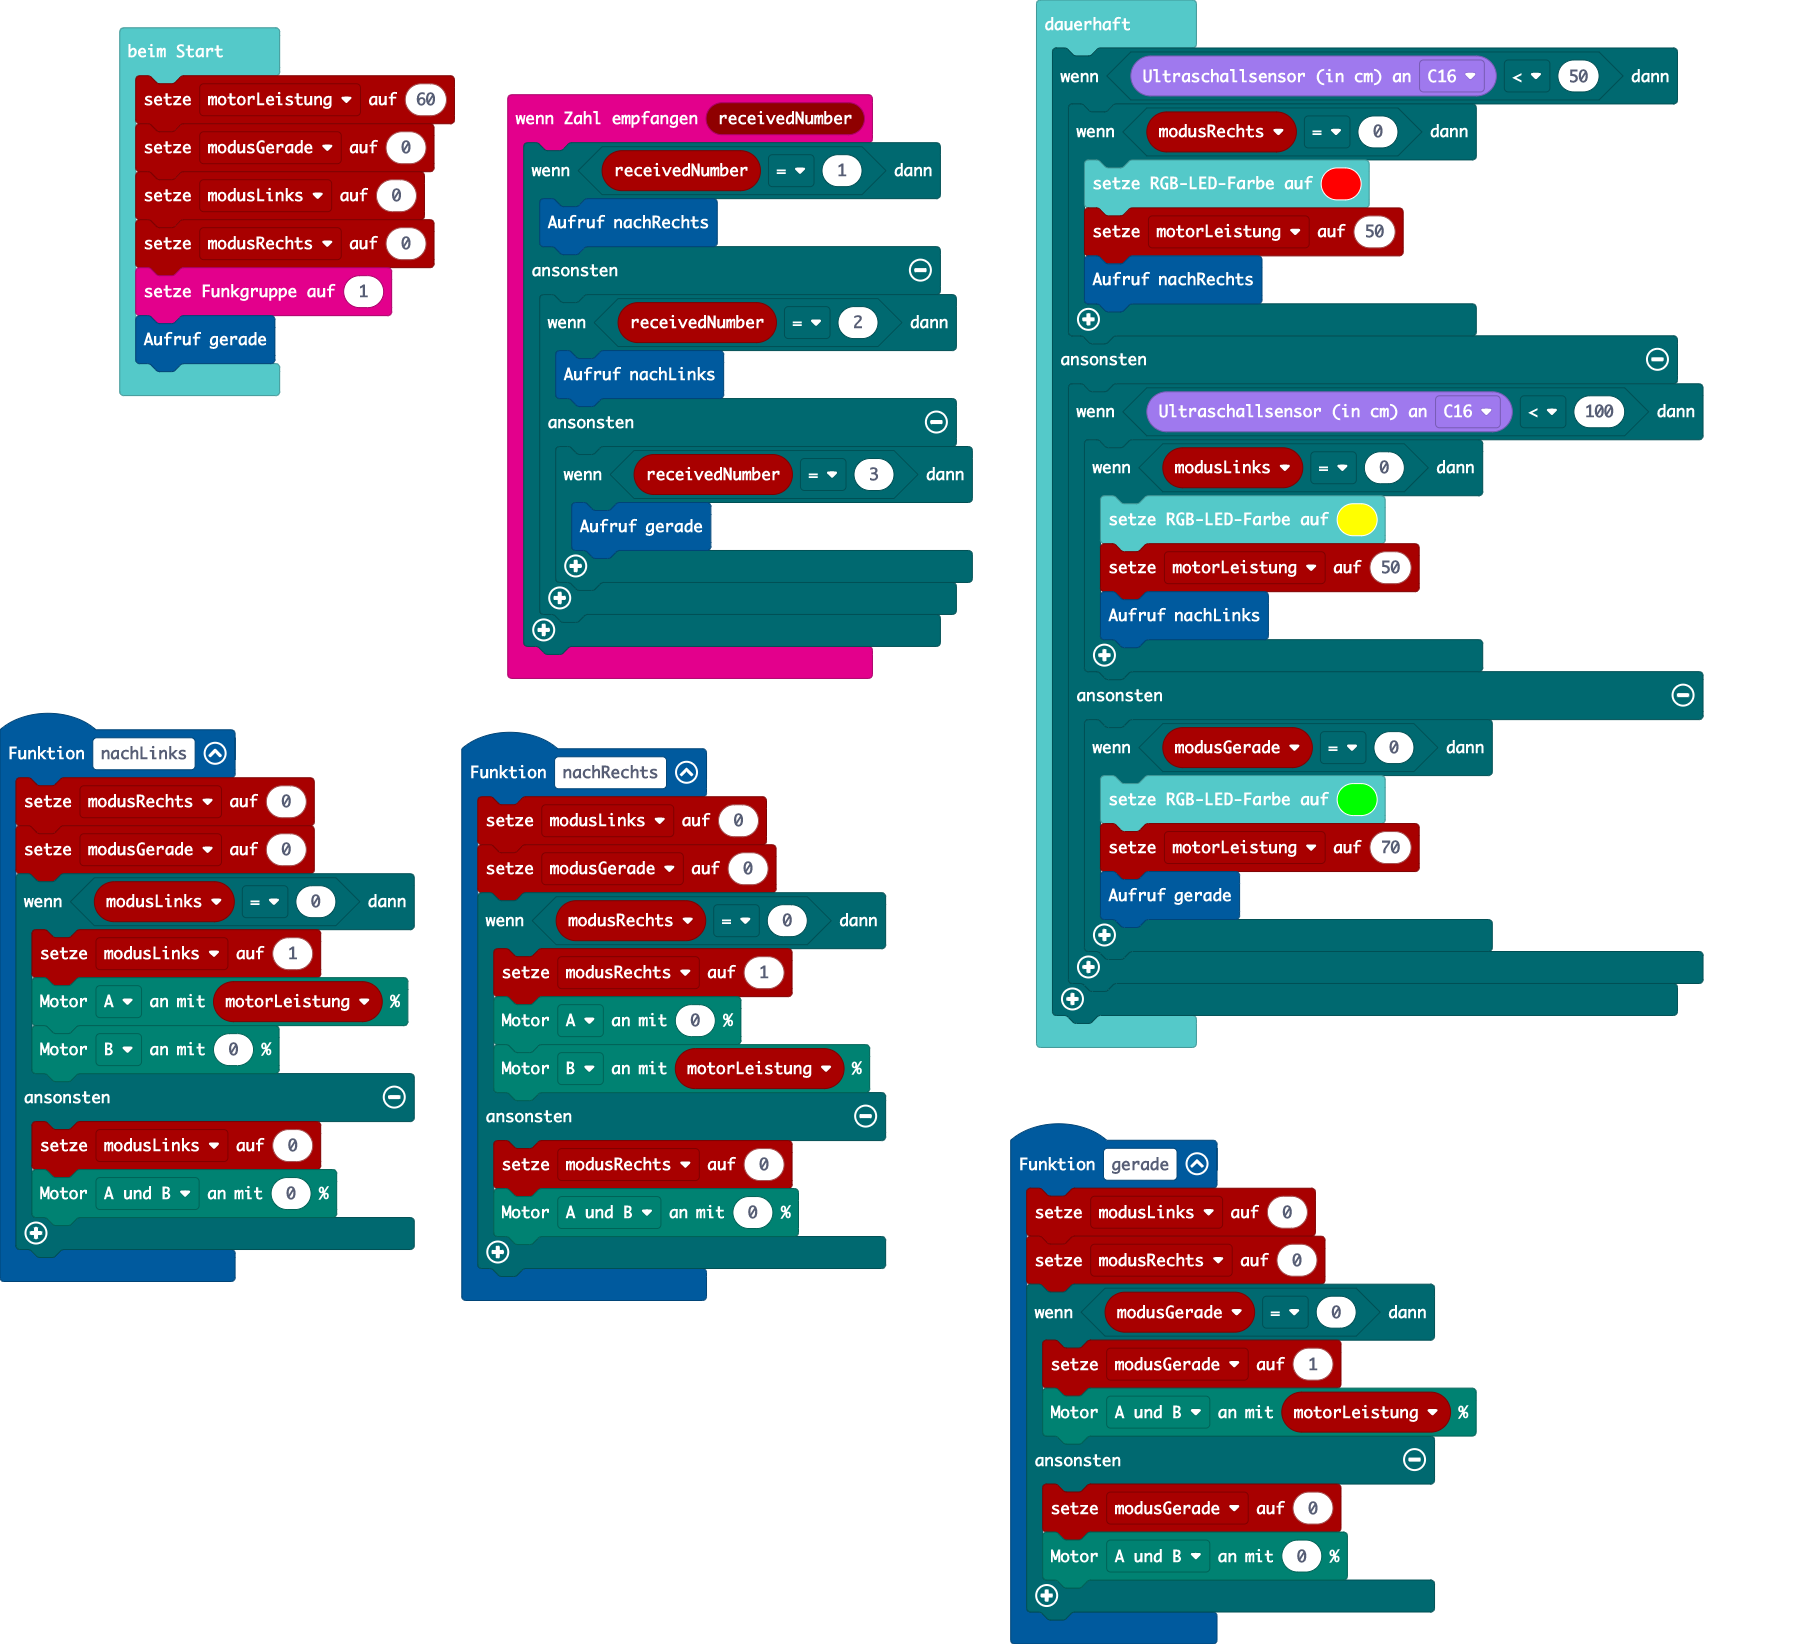
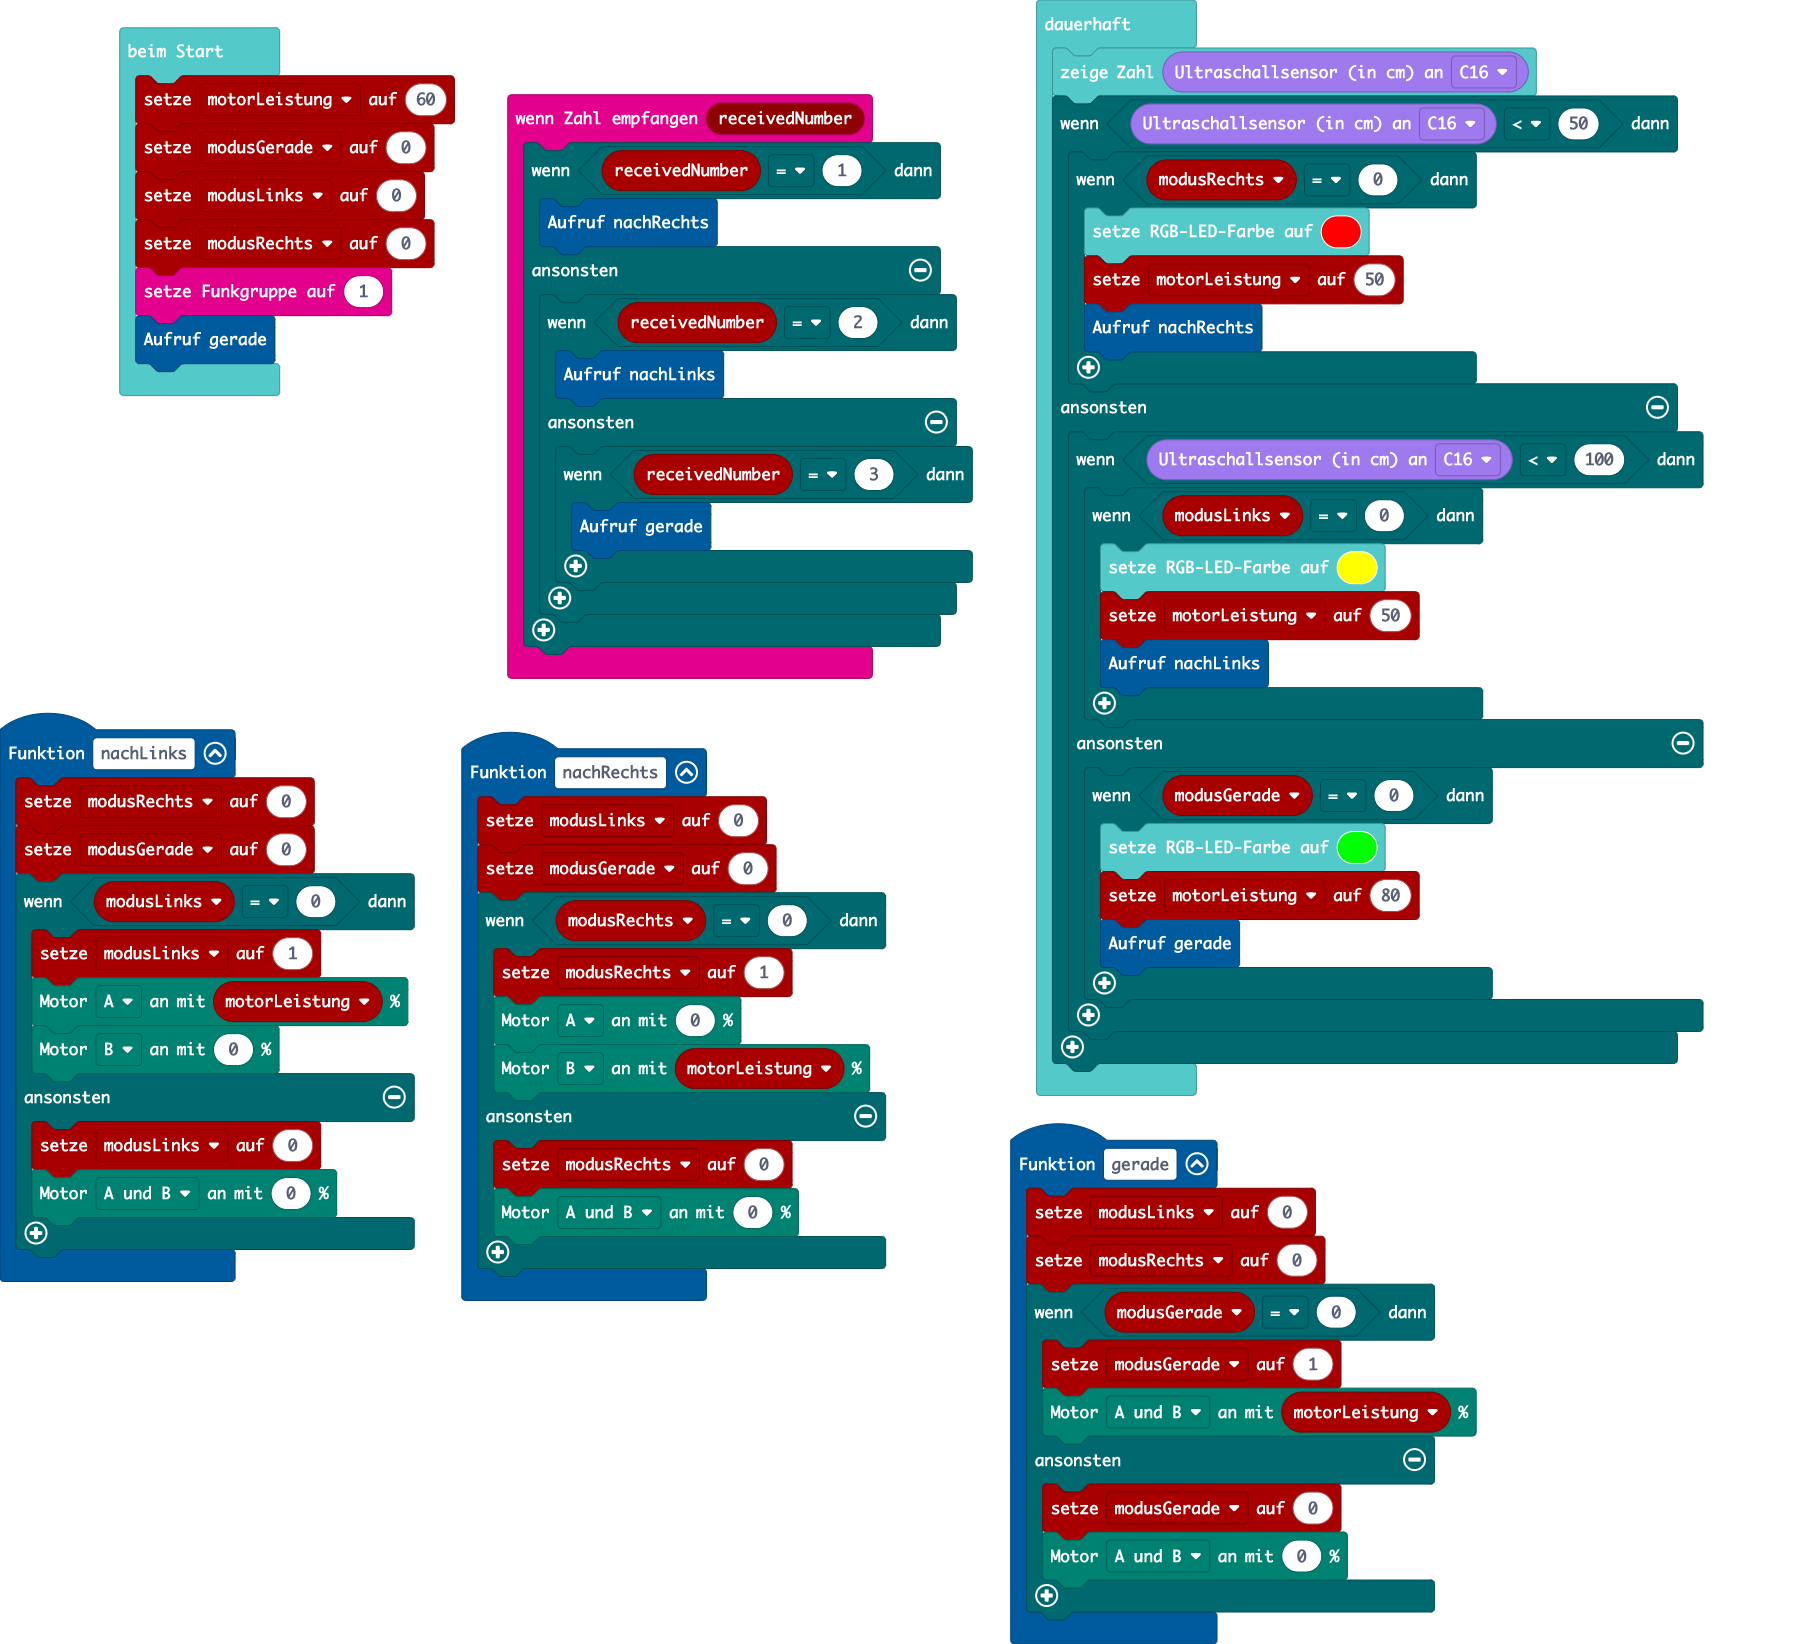
Aktualisiere main.blocks, main.ts

Changed region(s): [[0.5578, 0.031, 0.9607, 0.6825]]

diff --git a/main.ts b/main.ts
@@ -57,6 +57,7 @@ modusRechts = 0
 radio.setGroup(1)
 gerade()
 basic.forever(function () {
+    basic.showNumber(grove.measureInCentimeters(DigitalPin.C16))
     if (grove.measureInCentimeters(DigitalPin.C16) < 50) {
         if (modusRechts == 0) {
             basic.setLedColor(0xff0000)
@@ -73,7 +74,7 @@ basic.forever(function () {
         } else {
             if (modusGerade == 0) {
                 basic.setLedColor(0x00ff00)
-                motorLeistung = 70
+                motorLeistung = 80
                 gerade()
             }
         }
